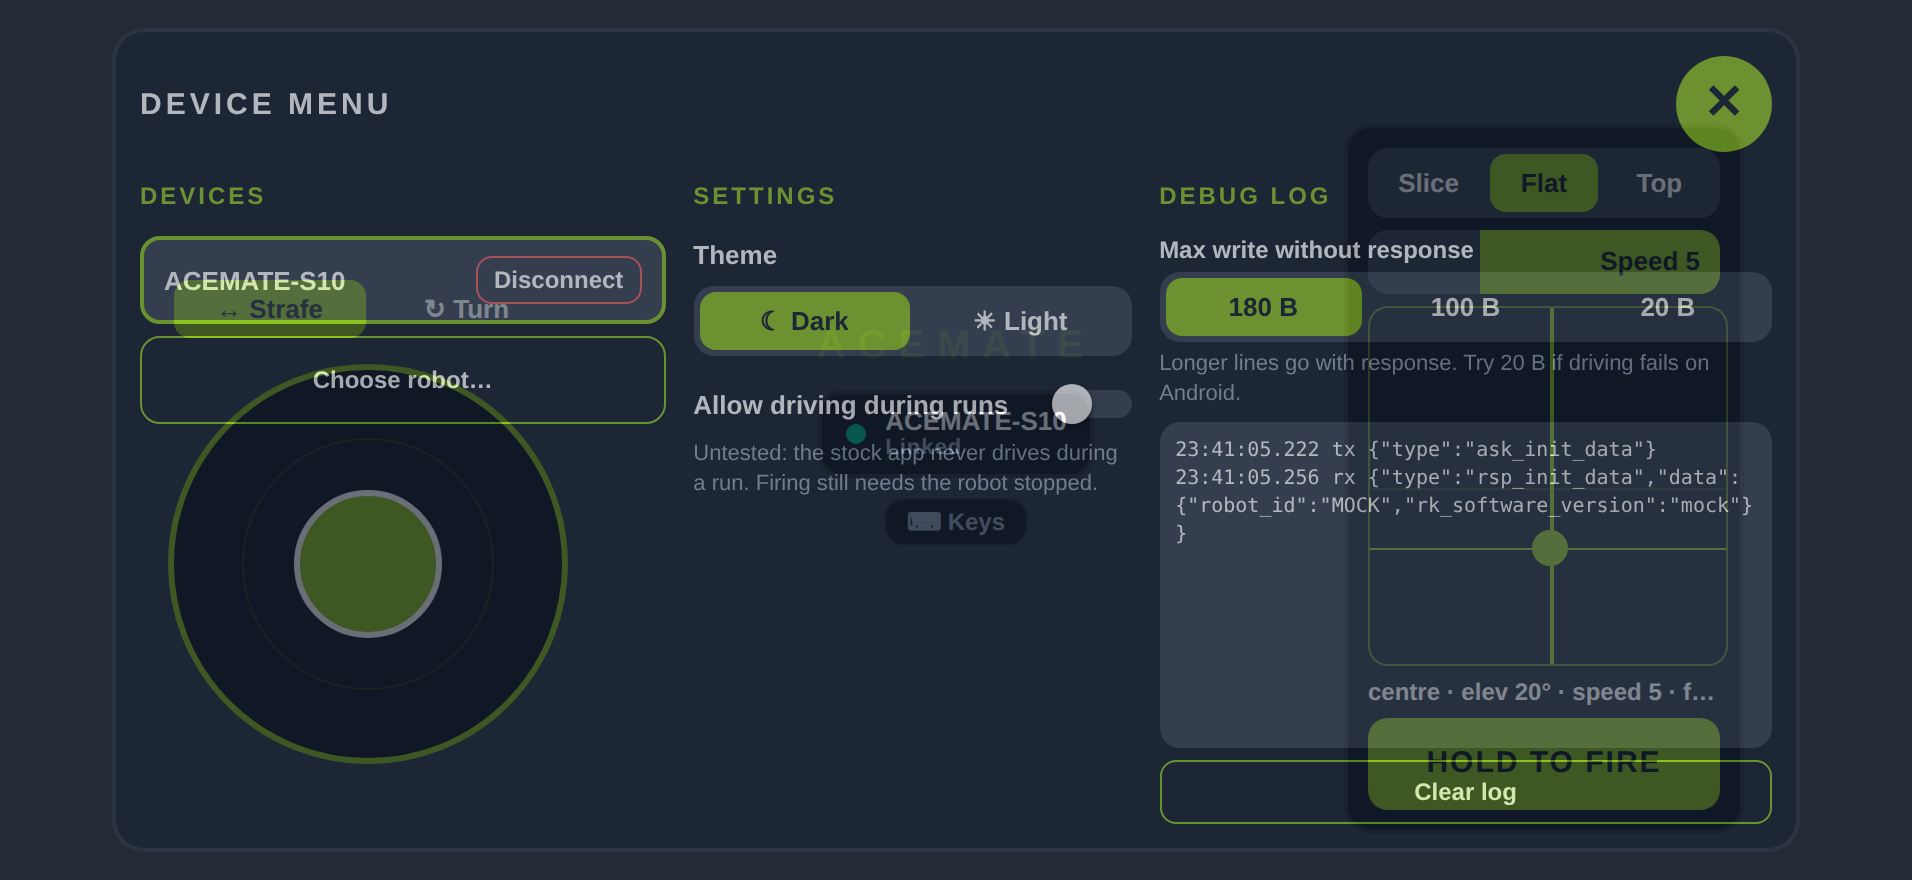
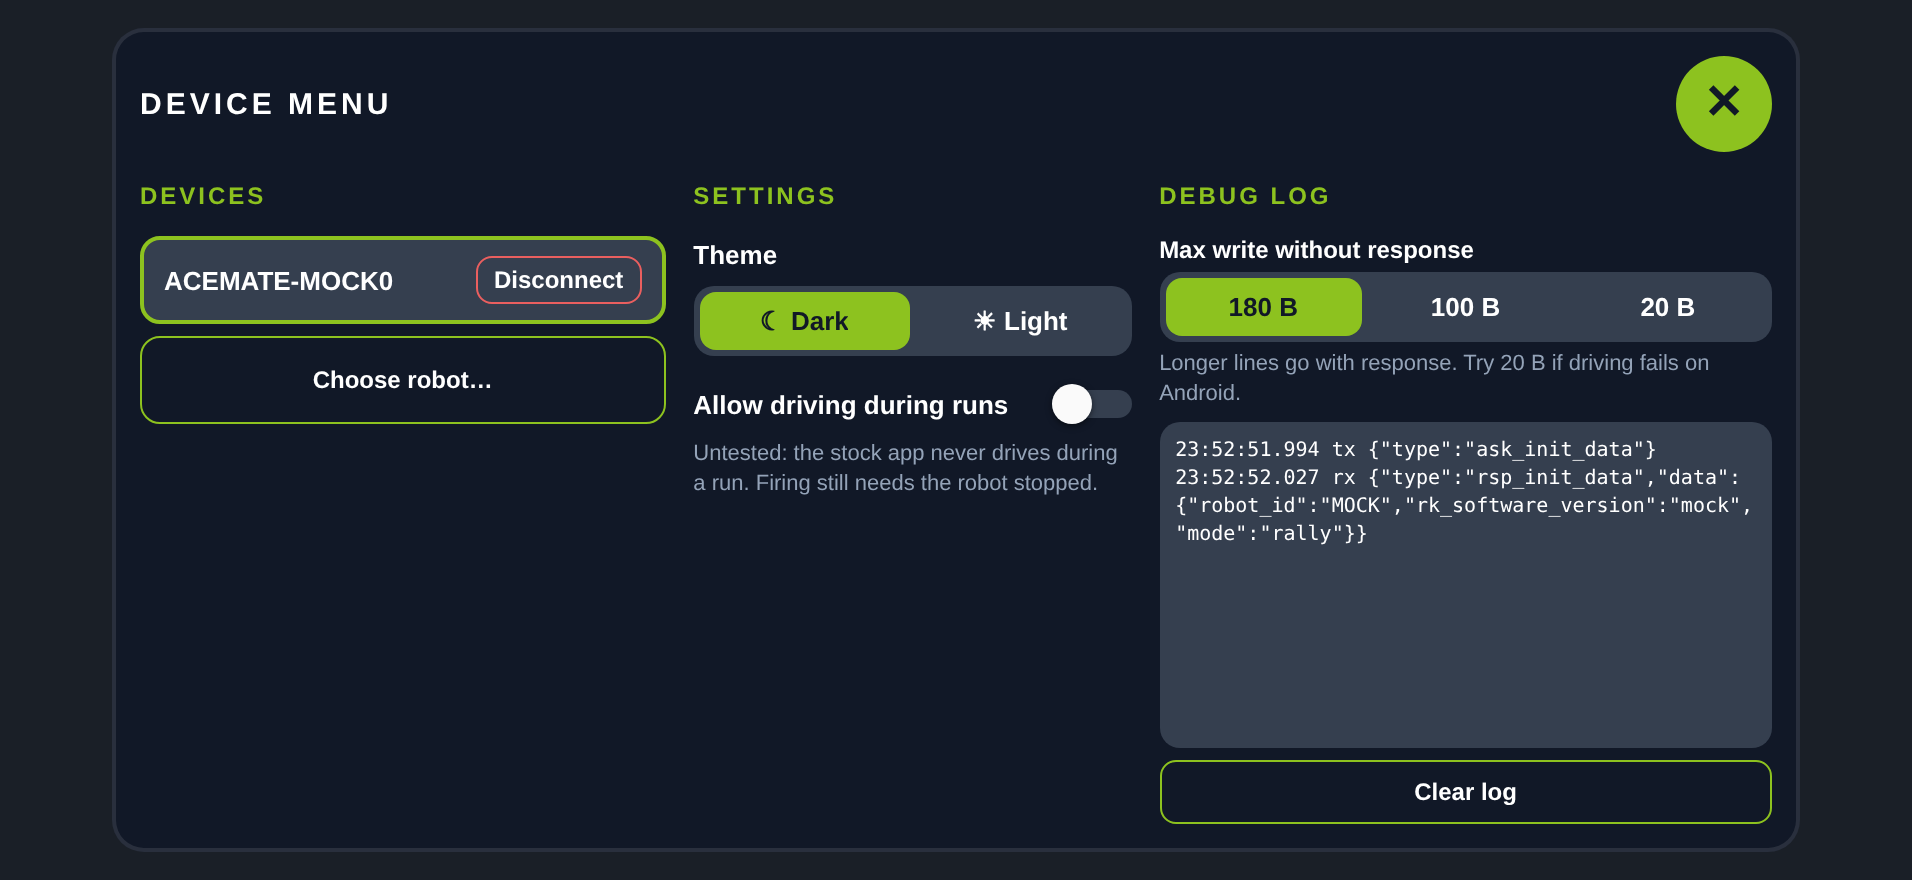
Add a shared MockRobot and a ?mock=1 mode to the web controller (#14)
@acemate/core gains MockRobot, a transport-free pretend S10 that answers
init, heartbeat, set_time and set_mode, ends its replies with +==ACE==+,
ignores a write that is not one whole message, and ignores run_start
until set_time, as the hardware does. The controller wraps it in a
MockChannel that the web build opens instead of Web Bluetooth when the
URL has ?mock=1, restoring the mock mode apps/web had. The screenshot
script now uses ?mock=1 rather than stubbing navigator.bluetooth.

diff --git a/packages/core/src/mock/mock-robot.ts b/packages/core/src/mock/mock-robot.ts
@@ -1,0 +1,115 @@
+import { parseMessage, type Request } from "../protocol/protocol";
+
+// Reply shapes follow captures in docs/protocol.md; rsp_set_time and rsp_set_mode fields beyond type are unconfirmed.
+export const MOCK_ROBOT_NAME = "ACEMATE-MOCK0";
+const REPLY_DELAY_MS = 30;
+
+export interface MockCarState {
+  car_loc_status: number;
+  time_is_set: boolean;
+  mode: string;
+  running: boolean;
+  train_id: null;
+  runner_state: number;
+  bat: number;
+}
+
+/** One robot-to-app message as the S10 sends it: compact JSON ending in the +==ACE==+ marker. */
+export function robotLine(message: Request): string {
+  return `${JSON.stringify(message)}+==ACE==+`;
+}
+
+/**
+ * A pretend S10 with no transport: each write's text goes in, replies come out through emit after a short delay.
+ * It models what the hardware showed: a write that is not one whole message is ignored, and run_start does nothing
+ * until set_time has set the clock.
+ */
+export class MockRobot {
+  /** Every request received, oldest first. */
+  readonly received: Request[] = [];
+  private readonly carState: MockCarState = {
+    car_loc_status: 0,
+    time_is_set: false,
+    mode: "rally",
+    running: false,
+    train_id: null,
+    runner_state: 0,
+    bat: 76,
+  };
+  private runSeconds = 1;
+  private runTimer: ReturnType<typeof setTimeout> | undefined;
+
+  constructor(private readonly emit: (message: Request) => void) {}
+
+  get state(): Readonly<MockCarState> {
+    return { ...this.carState };
+  }
+
+  /** Takes the text of one BLE write; the robot parses each write as a whole message. */
+  receive(text: string): void {
+    const request = parseMessage(text.trim());
+    if (request.type === "raw") return;
+    this.received.push(request);
+    const reply = this.answer(request);
+    if (reply) this.later(reply);
+  }
+
+  /** Cancels a pending run end, as a dropped link would. */
+  close(): void {
+    clearTimeout(this.runTimer);
+  }
+
+  private answer(request: Request): Request | null {
+    switch (request.type) {
+      case "ask_init_data":
+        return {
+          type: "rsp_init_data",
+          data: { robot_id: "MOCK", rk_software_version: "mock", mode: this.carState.mode },
+        };
+      case "ask_heartbeat":
+        return { type: "rsp_heartbeat", data: { car_state: this.state } };
+      case "set_time":
+        this.carState.time_is_set = true;
+        return { type: "rsp_set_time", data: { result: "ok" } };
+      case "set_mode":
+        return this.setMode(request);
+      case "run_start":
+        return this.startRun();
+      case "run_pause":
+      case "run_stop":
+        this.endRun();
+        return null;
+      default:
+        return null;
+    }
+  }
+
+  private setMode(request: Request): Request {
+    const data = (request.data ?? {}) as { mode?: unknown; total_balls?: unknown; interval?: unknown };
+    if (typeof data.mode === "string") this.carState.mode = data.mode;
+    const balls = typeof data.total_balls === "number" ? data.total_balls : 1;
+    const interval = typeof data.interval === "number" ? data.interval : 1;
+    this.runSeconds = balls * interval;
+    return { type: "rsp_set_mode", data: { mode: this.carState.mode, result: "ok" } };
+  }
+
+  private startRun(): Request | null {
+    if (!this.carState.time_is_set) return null;
+    clearTimeout(this.runTimer);
+    this.carState.running = true;
+    this.runTimer = setTimeout(() => {
+      this.endRun();
+      this.emit({ type: "run_stop", reason: "ball_machine_finished" });
+    }, this.runSeconds * 1000);
+    return { type: "run_start", mode: this.carState.mode, start_time: Math.floor(Date.now() / 1000) };
+  }
+
+  private endRun(): void {
+    clearTimeout(this.runTimer);
+    this.carState.running = false;
+  }
+
+  private later(message: Request): void {
+    setTimeout(() => this.emit(message), REPLY_DELAY_MS);
+  }
+}

diff --git a/packages/core/test/mock-robot.test.ts b/packages/core/test/mock-robot.test.ts
@@ -1,0 +1,105 @@
+import { afterEach, beforeEach, describe, expect, it, vi } from "vitest";
+import { LineDecoder, lineText, requests, type Request } from "../src/protocol/protocol";
+import { MockRobot, robotLine } from "../src/mock/mock-robot";
+
+function robotWithInbox() {
+  const inbox: Request[] = [];
+  const robot = new MockRobot((message) => inbox.push(message));
+  const send = (request: Request) => robot.receive(lineText(request));
+  const types = () => inbox.map((message) => message.type);
+  return { robot, inbox, send, types };
+}
+
+const setMode = (balls: number, interval: number): Request => ({
+  type: "set_mode",
+  data: { mode: "ball_machine", total_balls: balls, interval },
+});
+
+beforeEach(() => vi.useFakeTimers());
+afterEach(() => vi.useRealTimers());
+
+describe("MockRobot replies", () => {
+  it("answers init and heartbeat after a short delay", () => {
+    const { send, types } = robotWithInbox();
+
+    send(requests.askInit());
+    send(requests.heartbeat());
+    const before = types();
+    vi.advanceTimersByTime(30);
+
+    expect(before).toEqual([]);
+    expect(types()).toEqual(["rsp_init_data", "rsp_heartbeat"]);
+  });
+
+  it("reports the clock as unset until set_time arrives", () => {
+    const { robot, send } = robotWithInbox();
+
+    const before = robot.state.time_is_set;
+    send({ type: "set_time", data: { unix_timestamp: 1 } });
+
+    expect(before).toBe(false);
+    expect(robot.state.time_is_set).toBe(true);
+  });
+
+  it("ignores a write that is only part of a message, as the robot does with chunked writes", () => {
+    const { robot, inbox } = robotWithInbox();
+
+    robot.receive('{"type":"ask_heart');
+    vi.advanceTimersByTime(100);
+
+    expect(robot.received).toEqual([]);
+    expect(inbox).toEqual([]);
+  });
+});
+
+describe("MockRobot runs", () => {
+  it("acks set_mode but ignores run_start while the clock is unset", () => {
+    const { robot, send, types } = robotWithInbox();
+
+    send(setMode(1, 1));
+    send({ type: "run_start" });
+    vi.advanceTimersByTime(5000);
+
+    expect(types()).toEqual(["rsp_set_mode"]);
+    expect(robot.state.running).toBe(false);
+  });
+
+  it("runs for balls times interval seconds once the clock is set, then pushes run_stop", () => {
+    const { robot, inbox, send, types } = robotWithInbox();
+    send({ type: "set_time", data: {} });
+    send(setMode(3, 2));
+
+    send({ type: "run_start" });
+    vi.advanceTimersByTime(5999);
+    const midRun = robot.state.running;
+    vi.advanceTimersByTime(1);
+
+    expect(midRun).toBe(true);
+    expect(robot.state.running).toBe(false);
+    expect(types()).toEqual(["rsp_set_time", "rsp_set_mode", "run_start", "run_stop"]);
+    expect(inbox.at(-1)).toEqual({ type: "run_stop", reason: "ball_machine_finished" });
+  });
+
+  it("stops a run early on run_stop without pushing ball_machine_finished", () => {
+    const { robot, send, types } = robotWithInbox();
+    send({ type: "set_time", data: {} });
+    send(setMode(10, 1));
+    send({ type: "run_start" });
+
+    send({ type: "run_stop" });
+    vi.advanceTimersByTime(20_000);
+
+    expect(robot.state.running).toBe(false);
+    expect(types()).not.toContain("run_stop");
+  });
+});
+
+describe("robotLine", () => {
+  it("ends with the marker LineDecoder splits on", () => {
+    const decoder = new LineDecoder();
+
+    const lines = decoder.push(Buffer.from(robotLine({ type: "rsp_heartbeat" })));
+
+    expect(lines).toEqual(['{"type":"rsp_heartbeat"}']);
+  });
+});

diff --git a/apps/controller/src/robot/mock-channel.ts b/apps/controller/src/robot/mock-channel.ts
@@ -1,0 +1,45 @@
+import { Buffer } from "buffer";
+import { MOCK_ROBOT_NAME, MockRobot, robotLine } from "@acemate/core";
+import type { ByteChannel, OpenedRobot } from "./channel";
+
+/** ?mock=1 (any value) in the page URL swaps the robot for MockRobot, so the app runs with no S10 nearby. */
+export function mockRequested(search: string): boolean {
+  return new URLSearchParams(search).has("mock");
+}
+
+/** A ByteChannel to the shared MockRobot: each write is one whole message, as on BLE. */
+export class MockChannel implements ByteChannel {
+  readonly name = MOCK_ROBOT_NAME;
+  private readonly robot = new MockRobot((message) =>
+    this.dataListeners.forEach((listener) => listener(Buffer.from(robotLine(message)))),
+  );
+  private readonly dataListeners = new Set<(data: Buffer) => void>();
+  private readonly disconnectListeners = new Set<() => void>();
+  private connected = true;
+
+  async write(data: Buffer): Promise<void> {
+    if (!this.connected) throw new Error("Robot is disconnected");
+    this.robot.receive(data.toString("utf8"));
+  }
+
+  onData(listener: (data: Buffer) => void): () => void {
+    this.dataListeners.add(listener);
+    return () => this.dataListeners.delete(listener);
+  }
+
+  onDisconnect(listener: () => void): () => void {
+    this.disconnectListeners.add(listener);
+    return () => this.disconnectListeners.delete(listener);
+  }
+
+  async close(): Promise<void> {
+    if (!this.connected) return;
+    this.connected = false;
+    this.robot.close();
+    this.disconnectListeners.forEach((listener) => listener());
+  }
+}
+
+export function openMockRobot(): OpenedRobot {
+  return { id: "mock", channel: new MockChannel() };
+}

diff --git a/apps/controller/test/mock-channel.test.ts b/apps/controller/test/mock-channel.test.ts
@@ -1,0 +1,41 @@
+import { afterEach, beforeEach, describe, expect, it, vi } from "vitest";
+import { Buffer } from "buffer";
+import { LineDecoder, encodeLine, requests } from "@acemate/core";
+import { MockChannel, mockRequested } from "../src/robot/mock-channel";
+
+beforeEach(() => vi.useFakeTimers());
+afterEach(() => vi.useRealTimers());
+
+describe("mockRequested", () => {
+  it("turns mock mode on for ?mock=1 and leaves it off otherwise", () => {
+    expect(mockRequested("?mock=1")).toBe(true);
+    expect(mockRequested("?theme=dark&mock")).toBe(true);
+    expect(mockRequested("")).toBe(false);
+  });
+});
+
+describe("MockChannel", () => {
+  it("delivers the mock robot's replies as marker-terminated notifications", async () => {
+    const channel = new MockChannel();
+    const decoder = new LineDecoder();
+    const lines: string[] = [];
+    channel.onData((data) => lines.push(...decoder.push(data)));
+
+    await channel.write(encodeLine(requests.heartbeat()));
+    vi.advanceTimersByTime(30);
+
+    expect(lines.map((line) => (JSON.parse(line) as { type: string }).type)).toEqual(["rsp_heartbeat"]);
+  });
+
+  it("reports a disconnect once on close and refuses later writes", async () => {
+    const channel = new MockChannel();
+    const onDisconnect = vi.fn();
+    channel.onDisconnect(onDisconnect);
+
+    await channel.close();
+    await channel.close();
+
+    expect(onDisconnect).toHaveBeenCalledTimes(1);
+    await expect(channel.write(Buffer.from("{}"))).rejects.toThrow("Robot is disconnected");
+  });
+});

diff --git a/apps/controller/src/robot/ble-channel.web.ts b/apps/controller/src/robot/ble-channel.web.ts
@@ -1,4 +1,5 @@
 import type * as Native from "./ble-channel";
+import { mockRequested, openMockRobot } from "./mock-channel";
 import { NO_WEB_BLUETOOTH, bluetoothOf, openChannel, requestRobot } from "./web-bluetooth";
 
 // Metro picks this file for the web build, so react-native-ble-plx never reaches the browser bundle.
@@ -6,8 +7,11 @@ import { NO_WEB_BLUETOOTH, bluetoothOf, openChannel, requestRobot } from "./web-
 // requestDevice needs a tap, so the web never connects on its own; the device menu offers "Reconnect <name>".
 export const AUTO_CONNECT: typeof Native.AUTO_CONNECT = false;
 
+export const MOCK_MODE = typeof location !== "undefined" && mockRequested(location.search);
+
 /** Opens the chooser at once, keeping the tap's user gesture: every robot, or only the saved one when reconnecting. */
 export const openRobot: typeof Native.openRobot = (prefer, onFound) => {
+  if (MOCK_MODE) return Promise.resolve(openMockRobot()).then((robot) => (onFound(), robot));
   const bluetooth = typeof navigator === "undefined" ? null : bluetoothOf(navigator);
   if (!bluetooth) return Promise.reject(new Error(NO_WEB_BLUETOOTH));
   return requestRobot(bluetooth, prefer?.name).then(async (device) => {

diff --git a/apps/controller/src/ui/menu/DeviceList.web.tsx b/apps/controller/src/ui/menu/DeviceList.web.tsx
@@ -1,4 +1,5 @@
 import { Pressable, StyleSheet, Text, View } from "react-native";
+import { MOCK_MODE } from "../../robot/ble-channel.web";
 import type { RobotView } from "../../robot/use-robot";
 import { NO_WEB_BLUETOOTH, bluetoothOf } from "../../robot/web-bluetooth";
 import { useThemedStyles, type Palette } from "../theme";
@@ -6,7 +7,7 @@ import type { DeviceListProps } from "./DeviceList";
 
 function statusLine(robot: RobotView): string | null {
   if (robot.status === "scanning" || robot.status === "connecting") return "Connecting…";
-  if (bluetoothOf(navigator) === null) return NO_WEB_BLUETOOTH;
+  if (!MOCK_MODE && bluetoothOf(navigator) === null) return NO_WEB_BLUETOOTH;
   return robot.status === "disconnected" && robot.detail ? robot.detail : null;
 }
 

diff --git a/packages/core/src/index.ts b/packages/core/src/index.ts
@@ -4,6 +4,7 @@ export * from "./drive/motion";
 export * from "./drive/drive-loop";
 export * from "./drive/input";
 export * from "./launch/launch-controller";
+export * from "./mock/mock-robot";
 export * from "./controls/aim";
 export * from "./controls/assumptions";
 export * from "./controls/describe-shot";

diff --git a/README.md b/README.md
@@ -49,6 +49,8 @@ Open https://hjewkes.github.io/acemate/next/ in Chrome. Tap the device chip, the
 
 Open https://hjewkes.github.io/acemate/next/ in Chrome or Edge on macOS, Windows, Linux or ChromeOS, and connect the same way.
 
+To try the controller without a robot, open https://hjewkes.github.io/acemate/next/?mock=1 in any browser. **Choose robot…** then connects to a pretend robot, `ACEMATE-MOCK0`, which answers like an S10 and runs launches without firing anything.
+
 ### iPhone (Bluefy browser)
 
 Safari and Chrome on iOS have no Web Bluetooth. Install the free Bluefy browser from the App Store, open https://hjewkes.github.io/acemate/next/ in it, and connect as above.
@@ -63,7 +65,7 @@ Safari and Chrome on iOS have no Web Bluetooth. Install the free Bluefy browser 
 
 ![Hold to fire, part-way through the hold](assets/hold-to-fire.png)
 
-_Captured from the web build with a stand-in robot: `npm run export:web && npm run screenshots` in `apps/controller`._
+_Captured from the web build in mock mode: `npm run export:web && npm run screenshots` in `apps/controller`._
 
 ## Screen tour
 
